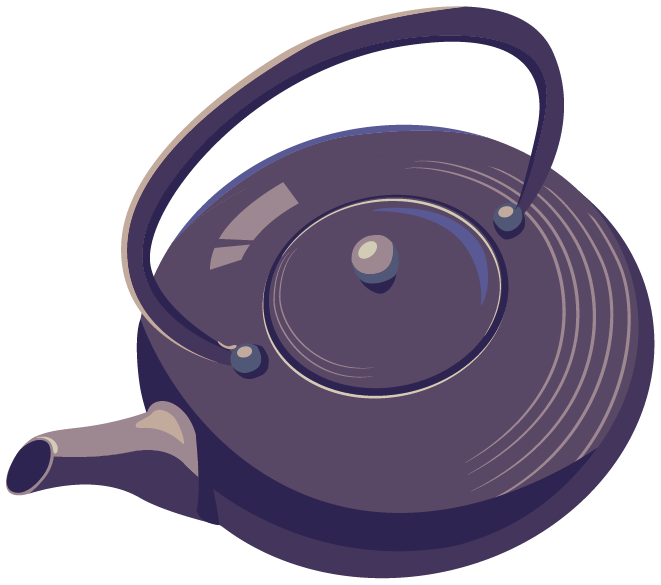
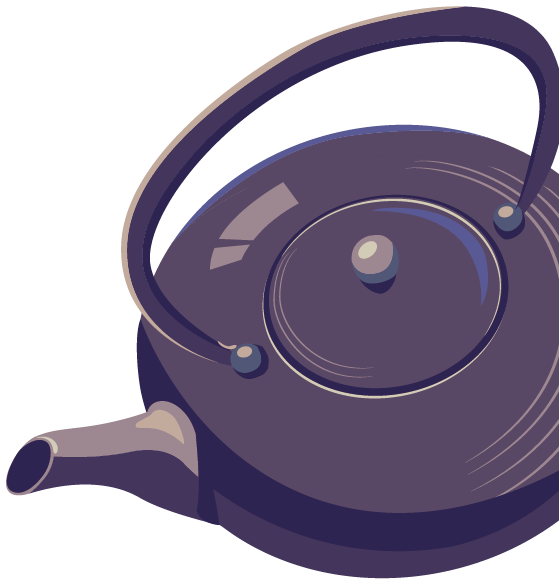
add bar

Changed region(s): [[0.0, 0.0, 1.0, 1.0]]

diff --git a/Alice/stove.html b/Alice/stove.html
@@ -8,17 +8,25 @@
 </head>
 
 <body>
-    <section class="Text btext">
-        <p>You fill a pottery kattle with well water and gently place it on the heating stove.'Just a couple minutes, sir' you say.</p>
-        <p>'Nevermind' Alice smile with his eye fixed on the kattle,'What an exquisite kattle, where did you get it?'</p>
-        <p>'Oh, I got it in a very small village in Sichuan. It's a fantastic journey. You know, Chinese tea is mostly small-scale village handicraft. So during the tea harvest. I went to a village which is famous for Puer to get some best tea. For I helped farmers select and pinch off tea leaves, they brought me to their house to experience the process of tea make. And it was then, an antique kettle caught my eye. And I bought it from farmer's hand. He told me his father left this kettle for him.' you said.</p>
-        <p>'You are so lucky! I was wondering where to find such a classic style kettle' she said, 'by the way, I am very curious about the tea make, could you tell me more about it?'</p>
-        <p>'Actually, they heated tea leaves with charcoal in fiery woks and then vigilantly tended piles of oxidizing leaves. They told me they need periodical heated these leaves and make them dry', you say 'oops, it’s boiling now.'</p>
-        <div id="stove-add"></div>
+    <section>
+        <div class="Text btext">
+            <p>You fill a pottery kattle with well water and gently place it on the heating stove.'Just a couple minutes, sir' you say.</p>
+            <p>'Nevermind' Alice smile with his eye fixed on the kattle,'What an exquisite kattle, where did you get it?'</p>
+            <p>'Oh, I got it in a very small village in Sichuan. It's a fantastic journey. You know, Chinese tea is mostly small-scale village handicraft. So during the tea harvest. I went to a village which is famous for Puer to get some best tea. For I helped farmers select and pinch off tea leaves, they brought me to their house to experience the process of tea make. And it was then, an antique kettle caught my eye. And I bought it from farmer's hand. He told me his father left this kettle for him.' you said.</p>
+            <p>'You are so lucky! I was wondering where to find such a classic style kettle' she said, 'by the way, I am very curious about the tea make, could you tell me more about it?'</p>
+            <p>'Actually, they heated tea leaves with charcoal in fiery woks and then vigilantly tended piles of oxidizing leaves. They told me they need periodical heated these leaves and make them dry', you say 'oops, it’s boiling now.'</p>
+            <div id="stove-add"></div>
+        </div>
+        <div class="bigImage bimg">
+            <img src="./img/stove.png">
+        </div>
     </section>
-    <div class="bigImage bimg">
-        <img src="./img/stove.png">
-    </div>
+    <aside>
+        <p>Your Tea Sets:</p>
+        <div>
+            
+        </div>  
+    </aside>
 </body>
 
 </html>

diff --git a/Alice/askForTea.html b/Alice/askForTea.html
@@ -1,22 +1,36 @@
 <!DOCTYPE html>
 <html lang="en">
+
 <head>
-	<meta charset="UTF-8">
-	<title>askForTea</title>
-	<link rel="stylesheet" type="text/css" href="Alice.css">
+    <meta charset="UTF-8">
+    <title>askForTea</title>
+    <link rel="stylesheet" type="text/css" href="Alice.css">
 </head>
+
 <body>
-	<div class="bigImage">
-		<img src="./img/alice.png">
-	</div>
-	<section class="Text">
-		<p>A young lady sit down with a warm smile, 'nice to meet you. I am Alice.'</p>
-		<p>She has light yellow hair and beautiful hands with long fingers. She wears a traditional blue skirt with embrodidered white sleves which makes her pretty elegent.</p>
-		<p>'Nice to meet you, what kind of tea do you want to taste?' you ask.</p>
-		<p>'Um, actually I have no idea.' Alice look at you with her blue eyes, 'Its my first time to teashop, do you have any recommendation?'</p>
-		<p>'Alright, my lady', you say 'let me prepare the best tea in my shop for you.'</p><br>
-		<a href="./stove.html">You turn to the stove to heat the water.</a><br><br>
-		<a href="">You turn to the tea box to get some tea leaves.</a>
-	</section>
+    <section>
+        <div class="bigImage">
+            <img src="./img/alice.png">
+        </div>
+        <div class="Text">
+            <p>A young lady sit down with a warm smile, 'nice to meet you. I am Alice.'</p>
+            <p>She has light yellow hair and beautiful hands with long fingers. She wears a traditional blue skirt with embrodidered white sleves which makes her pretty elegent.</p>
+            <p>'Nice to meet you, what kind of tea do you want to taste?' you ask.</p>
+            <p>'Um, actually I have no idea.' Alice look at you with her blue eyes, 'Its my first time to teashop, do you have any recommendation?'</p>
+            <p>'Alright, my lady', you say 'let me prepare the best tea in my shop for you.'</p>
+            <br>
+            <a href="./stove.html">You turn to the stove to heat the water.</a>
+            <br>
+            <br>
+            <a href="">You turn to the tea box to get some tea leaves.</a>
+        </div>
+    </section>
+    <aside>
+        <p>Your Tea Sets:</p>
+        <div id="add">
+        </div>
+    </aside>
+     <script type="text/javascript" src="../Aside-control.js"></script>
 </body>
+
 </html>

diff --git a/Alice/Alice.css b/Alice/Alice.css
@@ -24,37 +24,71 @@ a:hover{
 	background-color: #bfac9e;
 }
 
-.Text{
+aside{
+	width:180px;
+	float:right;
+	right:0;
+	height:auto;
+	border-left: 3px solid #525775;
+	margin:5px 0;
+}
+
+aside p {
+	margin:10px;
+	font-family: Copperplate Gothic Bold;
+	font-size: 19px;
+	margin-bottom: 20px;
+}
+
+#add{
+	text-align: center;
+}
+
+section{
 	float:left;
-	width:600px;
-	margin:50px;
+	width:calc(100% - 180px);
+}
+
+.Text{
+	margin:30px 10px;
 }
 
 .Text p{
 	margin-bottom: 20px;
+	margin-left:20px;
 }
 
+.btext{
+	float:left;
+}
+.btext p{
+	width:calc(100% - 350px);
+}
+
+.btext :nth-child(2){
+	width:calc(100% - 450px);
+}
+
+.btext :nth-child(3){
+	width:calc(100% - 500px);
+}
+.btext :nth-child(4){
+	width:calc(100% - 530px);
+}
+.btext :nth-child(5){
+	width:calc(100% - 600px);
+}
 .bigImage{
 	float:left;
 }
 
 .btext{
+	padding-top:30px;
 	font-size: 18px;
-	width:500px;
 }
 
-.btext :nth-child(1){
-	width:720px;
-}
-
-.btext :nth-child(2){
-	width:650px;
-}
-
-.btext :nth-child(3){
-	width:560px;
-}
 
 .bimg{
-	margin-top: 50px;
+	position: fixed;
+	right:180px;
 }

diff --git a/Aside-control.js b/Aside-control.js
@@ -1,0 +1,14 @@
+    var teaSetBar = document.getElementById('add');
+
+    function addItem(imgSource, imgName) {
+        var item = document.createElement('div');
+        var itemPic = document.createElement('img');
+        var itemName = document.createElement('p');
+        itemPic.setAttribute('src', imgSource);
+        itemName.innerHTML = imgName;
+        item.appendChild(itemPic);
+        item.appendChild(itemName);
+        teaSetBar.appendChild(item);
+    }
+
+    addItem('../item-pic/1.png', 'Tea Box');
